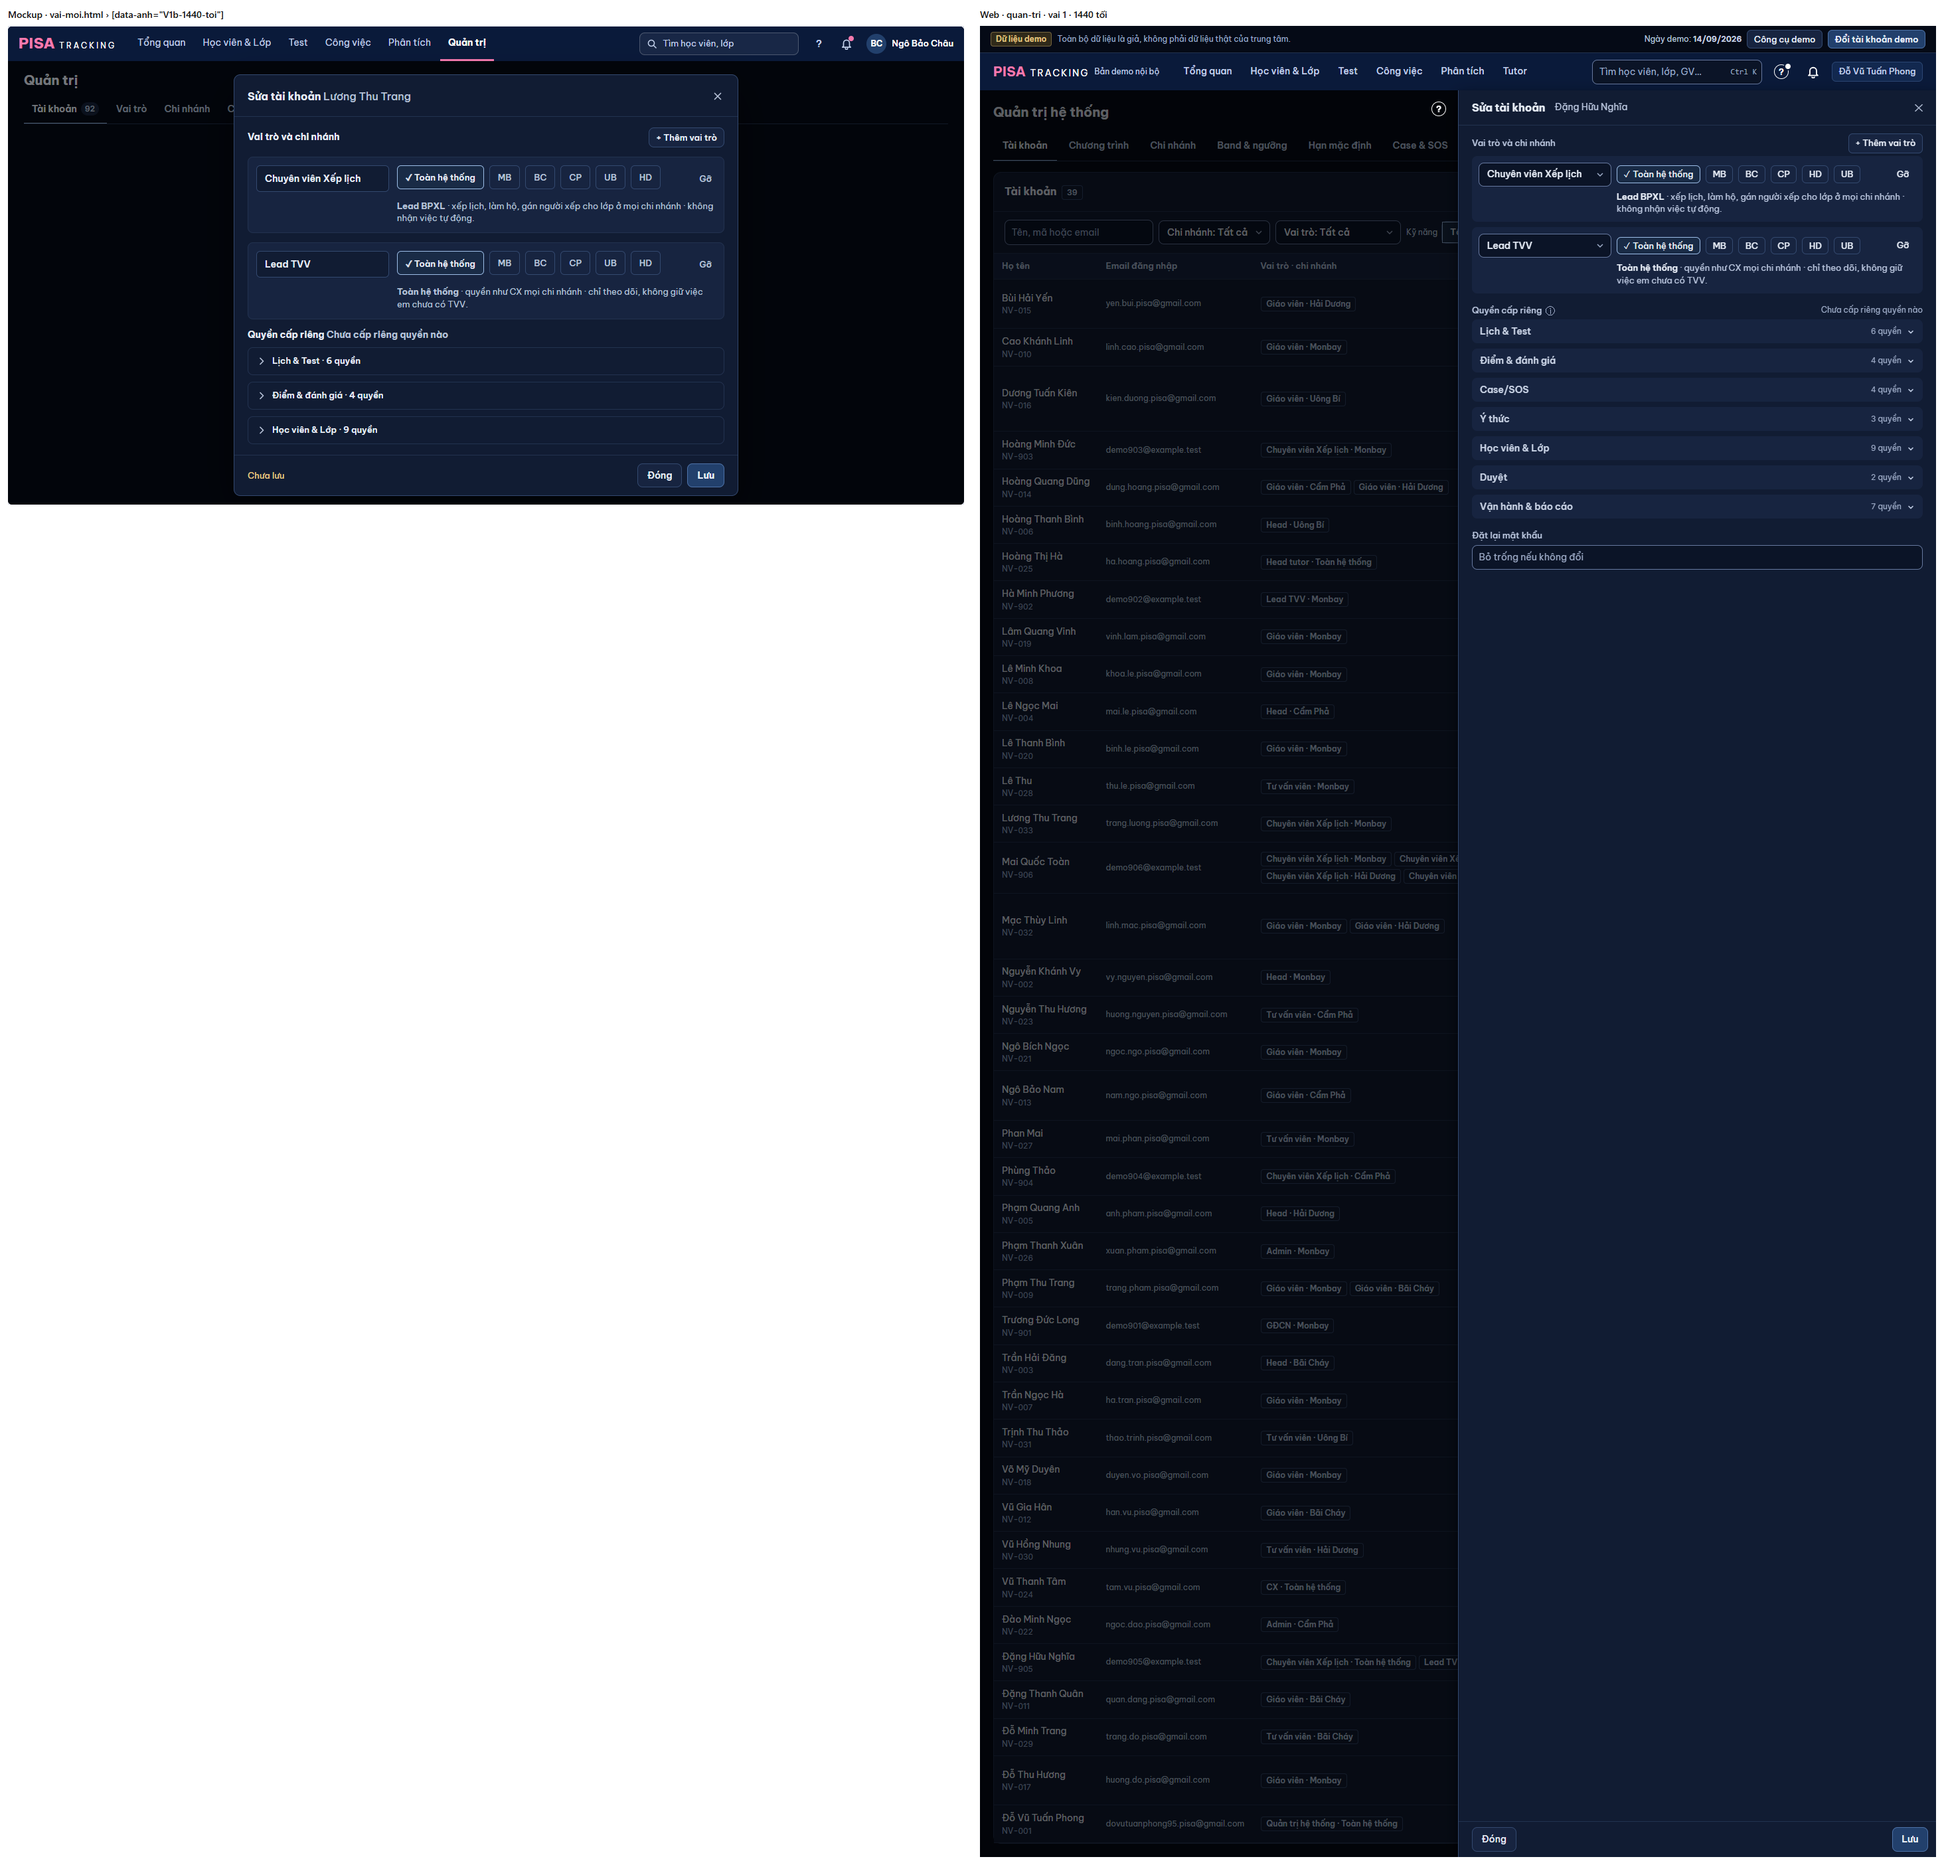
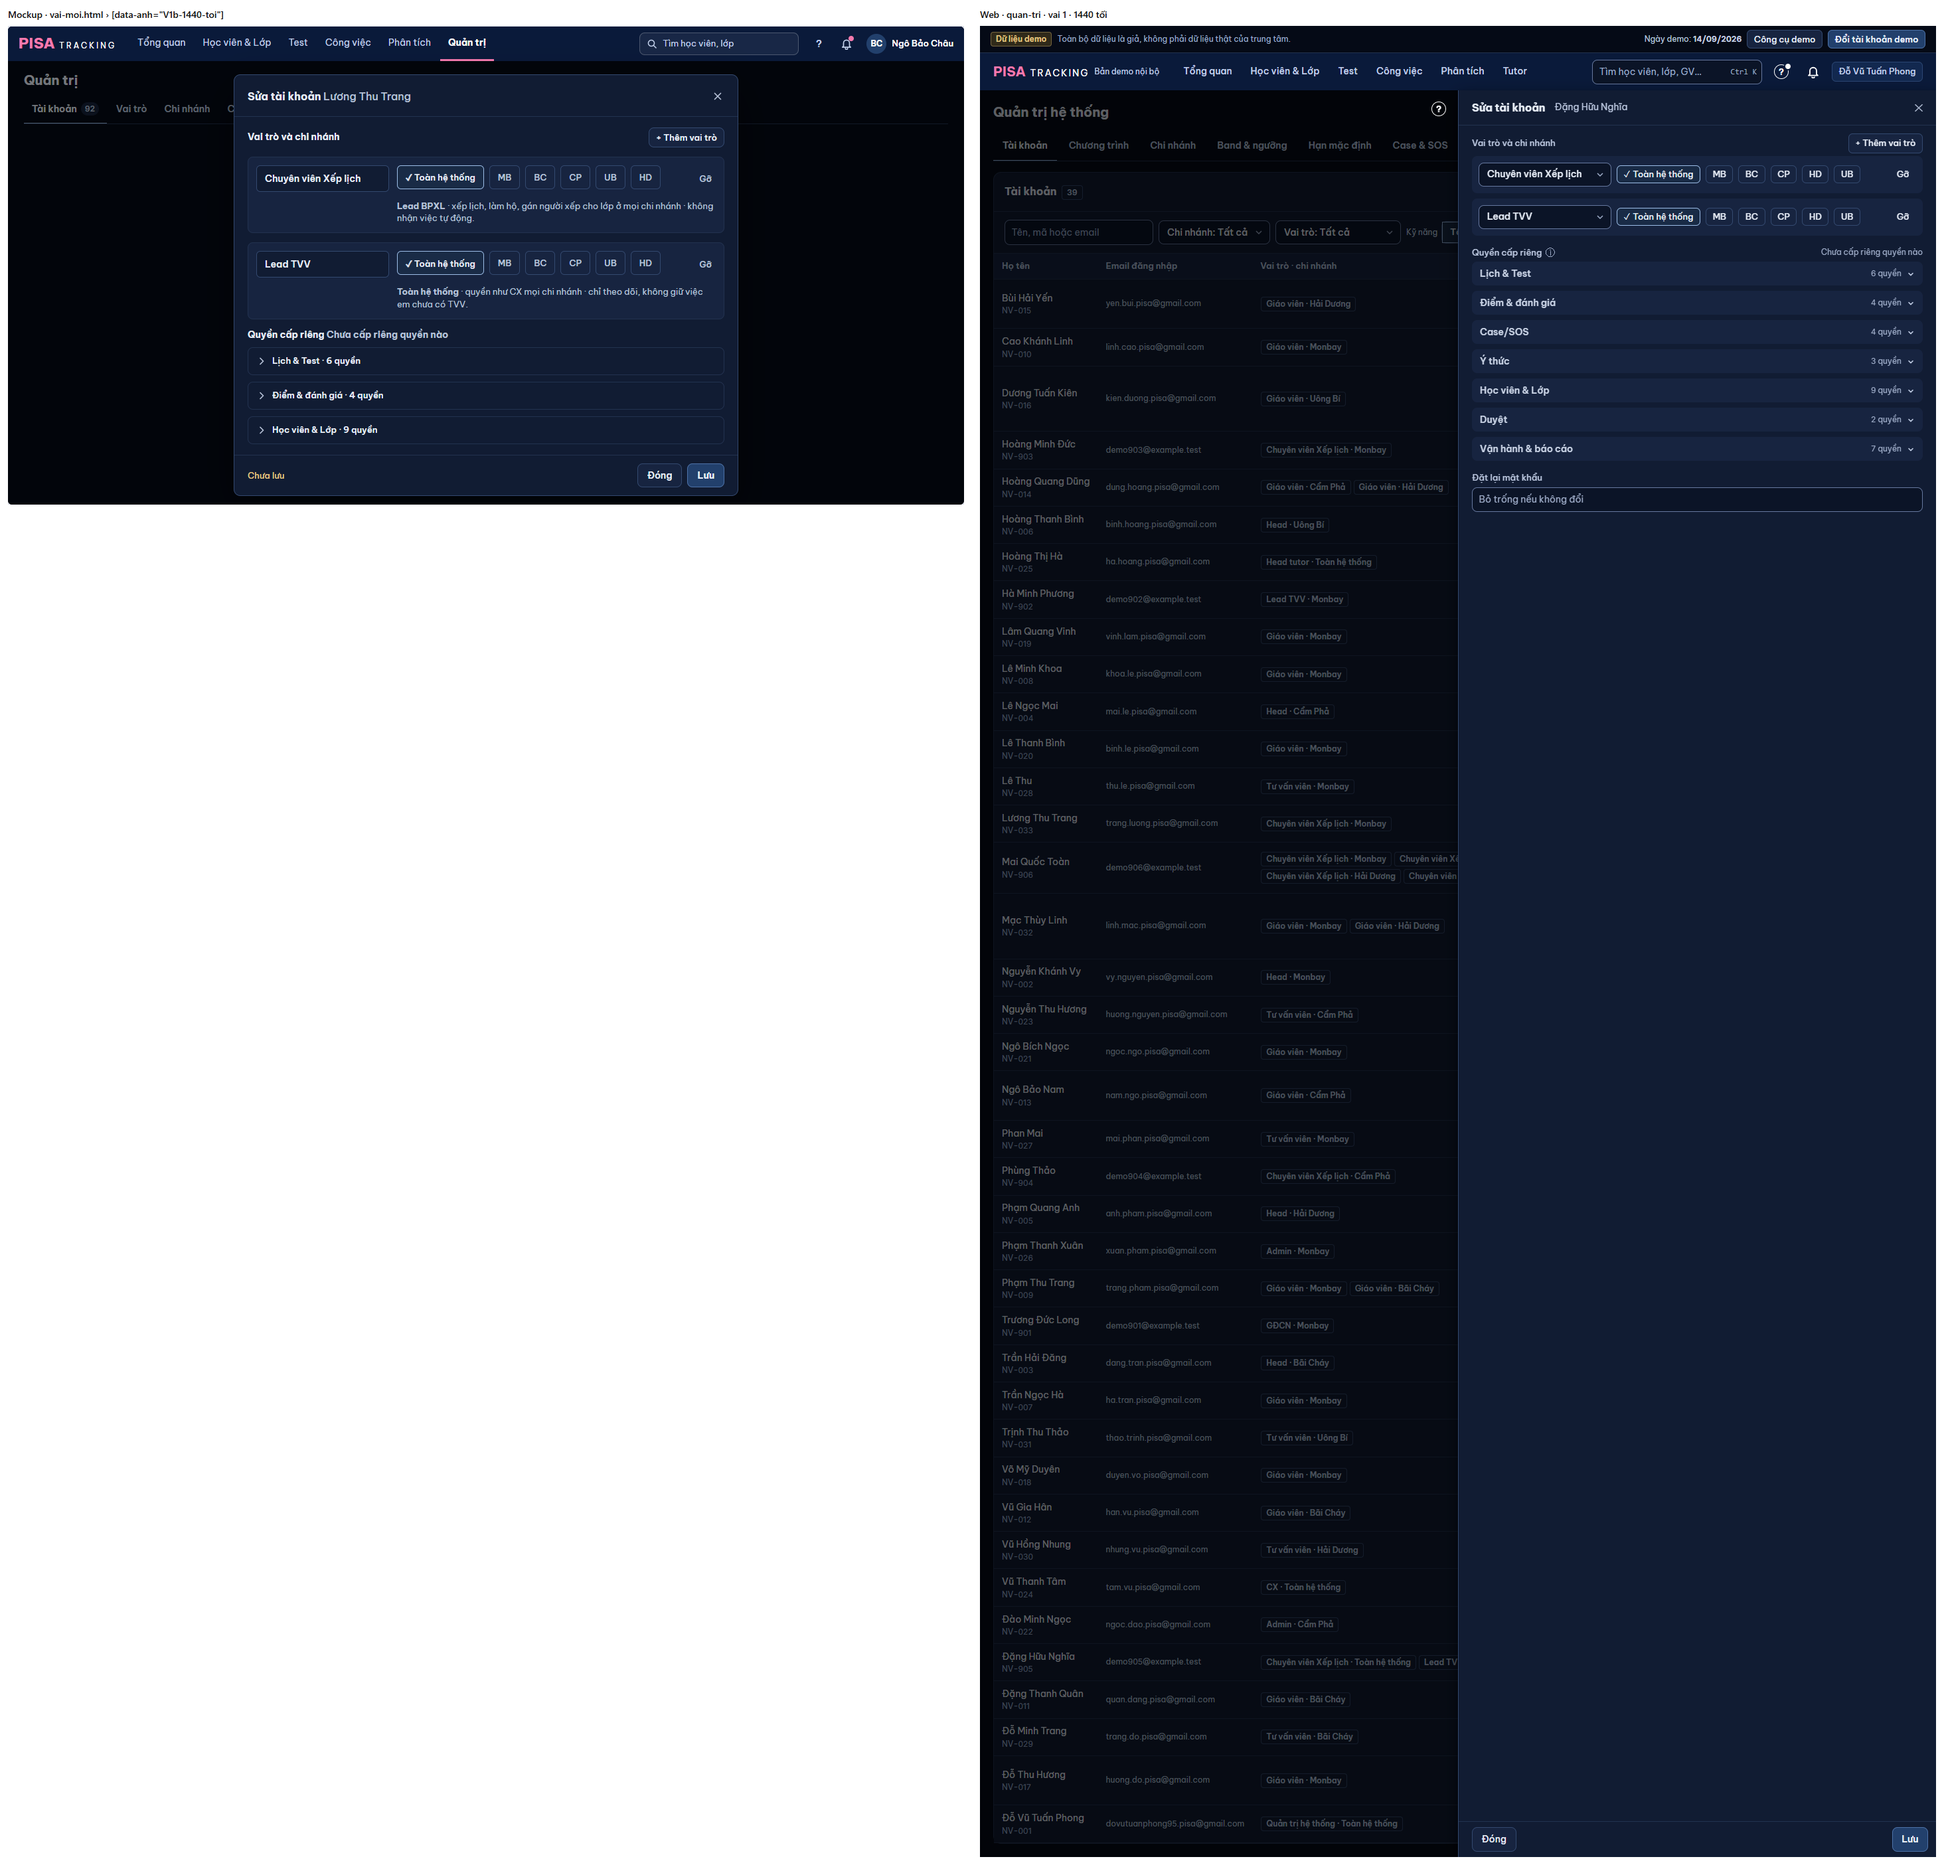
VAI-1: bỏ dòng mô tả dưới vai ở Sửa tài khoản (chủ SP 26/11 'không cần mấy cái ghi chú dưới role khi chọn'); chụp lại V1a / V1b / V1c

Changed region(s): [[0.7459, 0.0929, 0.9945, 0.2168], [0.7459, 0.2478, 0.9945, 0.3097]]

diff --git a/web/src/modules/platform/SuaVaiChiNhanh.tsx b/web/src/modules/platform/SuaVaiChiNhanh.tsx
@@ -1,4 +1,4 @@
-import type { HTMLAttributes, ReactNode } from 'react';
+import type { HTMLAttributes } from 'react';
 import { NutChon } from '../../ui/ui.tsx';
 import { OChon as OChonThuong } from '../phanTich/dungChung.tsx';
 import { ROLES, ROLE_LABEL, VAI_CN_TUY_CHON, roleLabel, type Role } from '@shared/domain/index.ts';
@@ -27,24 +27,6 @@ export const loiThieuChiNhanh = (ds: CapVai[]) => ds.flatMap((g, i) => (g.role &
   ? [{ i, lyDo: t('Chọn chi nhánh cho vai {vai}', { vai: roleLabel(g.role) }) }] : []));
 
 /**
- * VAI-1 (N75–N77, mockup v29 V1): dòng phụ dưới chip — nói đúng HẬU QUẢ của lựa chọn (lưu ý cần thiết): GĐCN như Head chỉ nhận Kết quả meeting · Lead TVV như CX giữ
- * việc em chưa có TVV · BPXL "Toàn hệ thống" = lead BPXL (không nhận việc tự động) · BPXL tích chi nhánh = nhận việc chi nhánh đó. Vai khác: không dòng.
- */
-function dongPhuVai(g: CapVai, tongCn: number): ReactNode {
-  const toan = g.branches.size === 0;
-  if (g.role === 'branch_director') return toan
-    ? <><b>{t('Toàn hệ thống')}</b> · {t('quyền như Head mọi chi nhánh · chỉ theo dõi, không nhận việc tự động.')}</>
-    : <>{t('Quyền như Head ở chi nhánh đã chọn · máy chỉ giao')} <b>{t('Kết quả meeting')}</b> {t('(em SOS 3), không nhận việc khác của Head.')}</>;
-  if (g.role === 'lead_consultant') return toan
-    ? <><b>{t('Toàn hệ thống')}</b> · {t('quyền như CX mọi chi nhánh · chỉ theo dõi, không giữ việc em chưa có TVV.')}</>
-    : <>{t('Quyền như CX · giữ việc TVV của em')} <b>{t('chưa có TVV')}</b> {t('ở chi nhánh đã chọn. Toàn hệ thống: chỉ theo dõi.')}</>;
-  if (g.role === 'scheduler') return toan
-    ? <><b>{t('Lead BPXL')}</b> · {t('xếp lịch, làm hộ, gán người xếp cho lớp ở mọi chi nhánh · không nhận việc tự động.')}</>
-    : <>{t('Xếp lịch mọi chi nhánh · nhận việc tự động của lớp chưa ai nhận ở')} <b>{g.branches.size >= tongCn && tongCn > 1 ? t('cả {n} chi nhánh', { n: tongCn }) : [...g.branches].join(', ')}</b> {t('(vẫn là nhân viên, không phải lead).')}</>;
-  return null;
-}
-
-/**
  * BỘ SỬA VAI TRÒ · CHI NHÁNH — dùng chung cho panel Sửa tài khoản và hộp đổi vai tại dòng (QTV2-TK): mỗi vai một hàng (ô chọn vai + nút chi nhánh
  * bật / tắt + Gỡ). `qtCuaMinh`: hàng Quản trị của chính mình khoá ô vai + Gỡ (OV-11b QT-2, máy chủ cũng chặn).
  */
@@ -60,7 +42,6 @@ export function SuaVaiChiNhanh({ value, onChange, branches, qtCuaMinh, loiHang, 
       {value.map((g, i) => {
         const khoaQt = qtCuaMinh && g.role === 'system_admin';
         const loi = loiHang?.(i);
-        const phu = dongPhuVai(g, branches.length);
         return (
           <div key={i} className="surface-2 rounded-lg p-2.5">
             <div className="flex flex-wrap items-center gap-2 max-sm:[&>*]:order-2" {...propsHang?.(i)} tabIndex={-1}>
@@ -93,7 +74,6 @@ export function SuaVaiChiNhanh({ value, onChange, branches, qtCuaMinh, loiHang, 
               <button className="btn btn-sm btn-ghost ml-auto max-sm:!order-1 max-sm:min-h-[44px]" type="button" disabled={khoaQt}
                 onClick={() => onChange(value.filter((_, j) => j !== i))}>{t('Gỡ')}</button>
             </div>
-            {phu && <p className="m-0 mt-1.5 text-[13px] leading-[1.45] text-dim sm:pl-[208px] [&_b]:font-semibold [&_b]:text-slate-100">{phu}</p>}
             {khoaQt && <p className="m-0 mt-1.5 text-xs text-slate-400">{t('Không tự gỡ vai Quản trị của mình')}</p>}
             {loi && <p className="m-0 mt-1.5 text-xs text-late">{loi}</p>}
           </div>

diff --git a/shared/i18n/en/vai1.ts b/shared/i18n/en/vai1.ts
@@ -6,13 +6,4 @@ export const EN_VAI1 = {
   'Người xếp lịch {lop}': 'Scheduler of {lop}', 'Tìm người xếp lịch': 'Find a scheduler', 'Người xếp lịch': 'Scheduler', 'Bỏ người xếp lịch': 'Remove scheduler',
   'Bỏ nhận': 'Release', 'Nhận lại': 'Take over', 'Nhận lớp': 'Take class',
   'Lớp ở chi nhánh bạn không được gán: chỉ lịch, không có điểm.': 'Classes at branches you are not assigned to: schedule only, no scores.',
-  'quyền như Head mọi chi nhánh · chỉ theo dõi, không nhận việc tự động.': 'Head permissions at every branch · follow only, no automatic tasks.',
-  'Quyền như Head ở chi nhánh đã chọn · máy chỉ giao': 'Head permissions at the chosen branches · the system only assigns',
-  'Kết quả meeting': 'Meeting result', '(em SOS 3), không nhận việc khác của Head.': '(SOS 3 students), no other Head tasks.',
-  'quyền như CX mọi chi nhánh · chỉ theo dõi, không giữ việc em chưa có TVV.': 'CX permissions at every branch · follow only, does not hold tasks of students without a counsellor.',
-  'Quyền như CX · giữ việc TVV của em': 'CX permissions · holds counsellor tasks of students with',
-  'ở chi nhánh đã chọn. Toàn hệ thống: chỉ theo dõi.': 'at the chosen branches. System-wide: follow only.',
-  'Lead BPXL': 'Scheduling lead', 'xếp lịch, làm hộ, gán người xếp cho lớp ở mọi chi nhánh · không nhận việc tự động.': 'schedules, acts for others, assigns class schedulers at every branch · no automatic tasks.',
-  'Xếp lịch mọi chi nhánh · nhận việc tự động của lớp chưa ai nhận ở': 'Schedules every branch · gets automatic tasks of untaken classes at',
-  'cả {n} chi nhánh': 'all {n} branches', '(vẫn là nhân viên, không phải lead).': '(still staff, not a lead).',
 } as const;

diff --git a/docs/anh/vai-1/khop-khac.md b/docs/anh/vai-1/khop-khac.md
@@ -14,9 +14,9 @@
 | K2a/b · CN khác: "Đã có điểm" thay band, S Ex chỉ tuần, tên em không link, ⓘ giải thích | `LuoiKeHoach chiLich` · `ODotGon anDiem` · `HangSEx` (`diem != null`) · NutLuat thêm 1 dòng | K2a-1440, K2b-375 | KHỚP |
 | K3a · bấm Nhận lớp → toast + Hoàn tác | `XepLichLop.doi` → `toast.hoanTac` ("· n việc Xếp lịch họp chuyển theo" khi máy chủ trả `soViec`) | K3a-1440 | KHỚP; Hoàn tác 10 giây như mọi toast (mockup ghi 15 phút = cửa sổ máy chủ) |
 | K3b · 409 "Lớp vừa có người khác nhận." + Tải lại | `XepLichLop` nhánh 409 | K3b-375-web-loi409 (chỉ web) | KHỚP |
-| V1a · ô vai có GĐCN, Lead TVV + dòng phụ hậu quả | `SuaVaiChiNhanh` (`dongPhuVai`), ô vai 200 px | V1a-1440 | KHÁC nhỏ: ô vai là `<select>` gốc (không vẽ được dòng phụ trong danh sách thả) — dòng phụ hậu quả nằm dưới chip như mockup |
-| V1b · BPXL Toàn hệ thống = Lead BPXL, Lead TVV toàn HT | như trên | V1b-1440 | KHỚP (đã sửa ô vai cắt "Chuyên viên Xếp lịc") |
-| V1c · 375 BPXL đủ 5 CN | như trên, 375: ô vai + Gỡ hàng đầu, chip hàng sau | V1c-375 | KHỚP |
+| V1a · ô vai có GĐCN, Lead TVV | `SuaVaiChiNhanh` (ô vai 200 px) | V1a-1440 | KHỚP — chủ SP 26/11 "không cần mấy cái ghi chú dưới role khi chọn": chỉ tên vai, không dòng mô tả trong ô chọn và dưới dòng vai |
+| V1b · BPXL Toàn hệ thống, Lead TVV toàn HT | như trên | V1b-1440 | KHỚP (bỏ dòng giải thích theo chủ SP 26/11; đã sửa ô vai cắt "Chuyên viên Xếp lịc") |
+| V1c · 375 BPXL đủ 5 CN | như trên, 375: ô vai + Gỡ hàng đầu, chip hàng sau | V1c-375 | KHỚP (không dòng giải thích) |
 | V2a · Head bấm ô tên → hộp chọn BPXL + "Bỏ người xếp lịch" | `XepLichDau` (DauTrangLop) → `XepLichLop ganHo` + `HopNeo` + `ChonNguoi` | V2a-1440 | KHỚP; đặt cùng dòng GV (đầu hồ sơ web khác khuôn mockup) |
 | V2b · vừa đổi → toast Hoàn tác | như trên | V2b-1280 | KHỚP |
 | V2c · 375 lớp chưa ai nhận | như trên | V2c-375 | KHỚP |
@@ -33,7 +33,7 @@ BỎ: không. GIỮ: mọi thao tác cũ (bảng mục 2).
 | Kế hoạch Test (BPXL) | lớp CN gán; không ô Chi nhánh (1 CN) | + ô Chi nhánh (mọi CN, "Tất cả"); + Nhận lớp / Bỏ nhận / Nhận lại + Hoàn tác; Xuất Excel…, Xếp nhiều MT…, + MT, S Ex, Ghi chú lớp, dải số giữ | không |
 | Kế hoạch Test CN khác | không thấy | thấy + xếp được (máy chủ đã mở); ô xong "Đã có điểm", tên em chữ thường | không |
 | Lịch Test tuần (BPXL) | CN gán | + ô Chi nhánh như Kế hoạch Test (đặc tả "dùng lại") | không |
-| Sửa tài khoản | 8 vai | 10 vai + dòng phụ hậu quả (GĐCN, Lead TVV, BPXL toàn HT / theo CN) | không |
+| Sửa tài khoản | 8 vai | 10 vai (+ GĐCN, Lead TVV), chỉ tên vai | không |
 | Hồ sơ lớp | — | + "Xếp lịch {tên}": BPXL Nhận / Bỏ; Head / GĐCN / QT / lead BPXL đổi qua hộp chọn | không |
 | Công việc GĐCN | (vai chưa có) | như Head; mặc định Của tôi khi có việc, không → Tất cả | — |
 | Công việc Lead TVV | (vai chưa có) | như CX, chỉ "Của tôi · Tất cả" (PTA 26/11); "Của tôi" chia tab Báo PH · Sau thi · Chốt ngày thi · Bổ sung hồ sơ | — |
